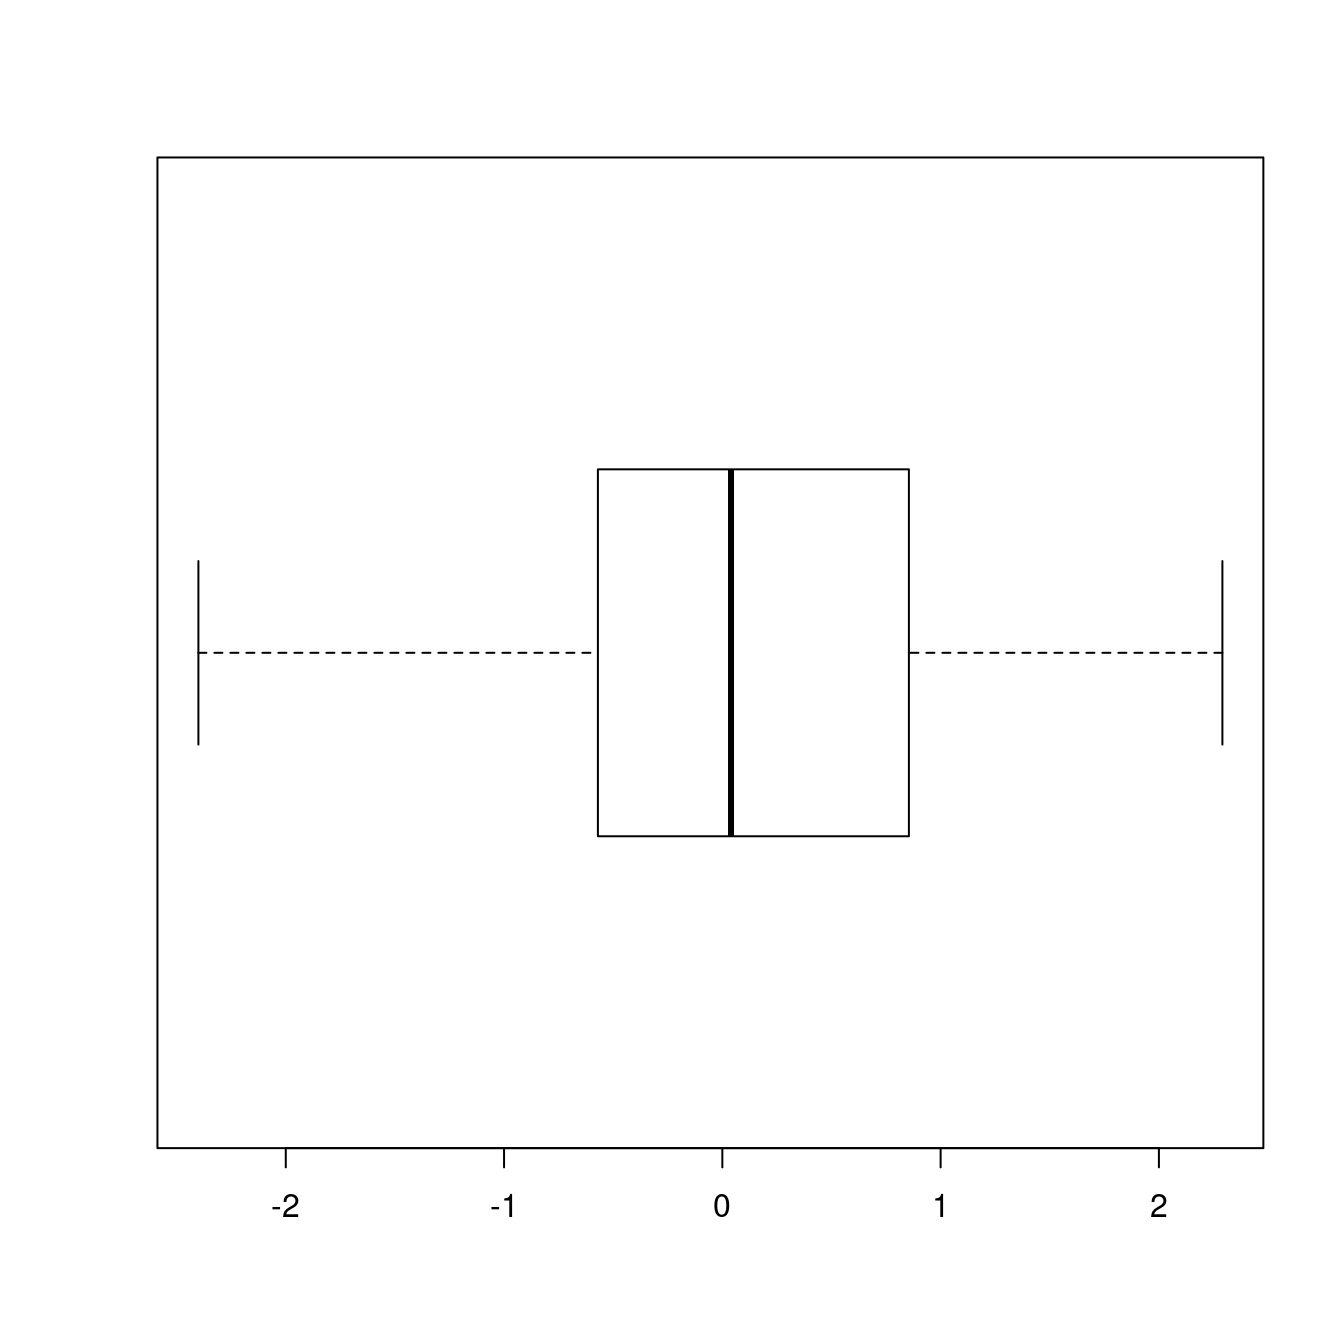
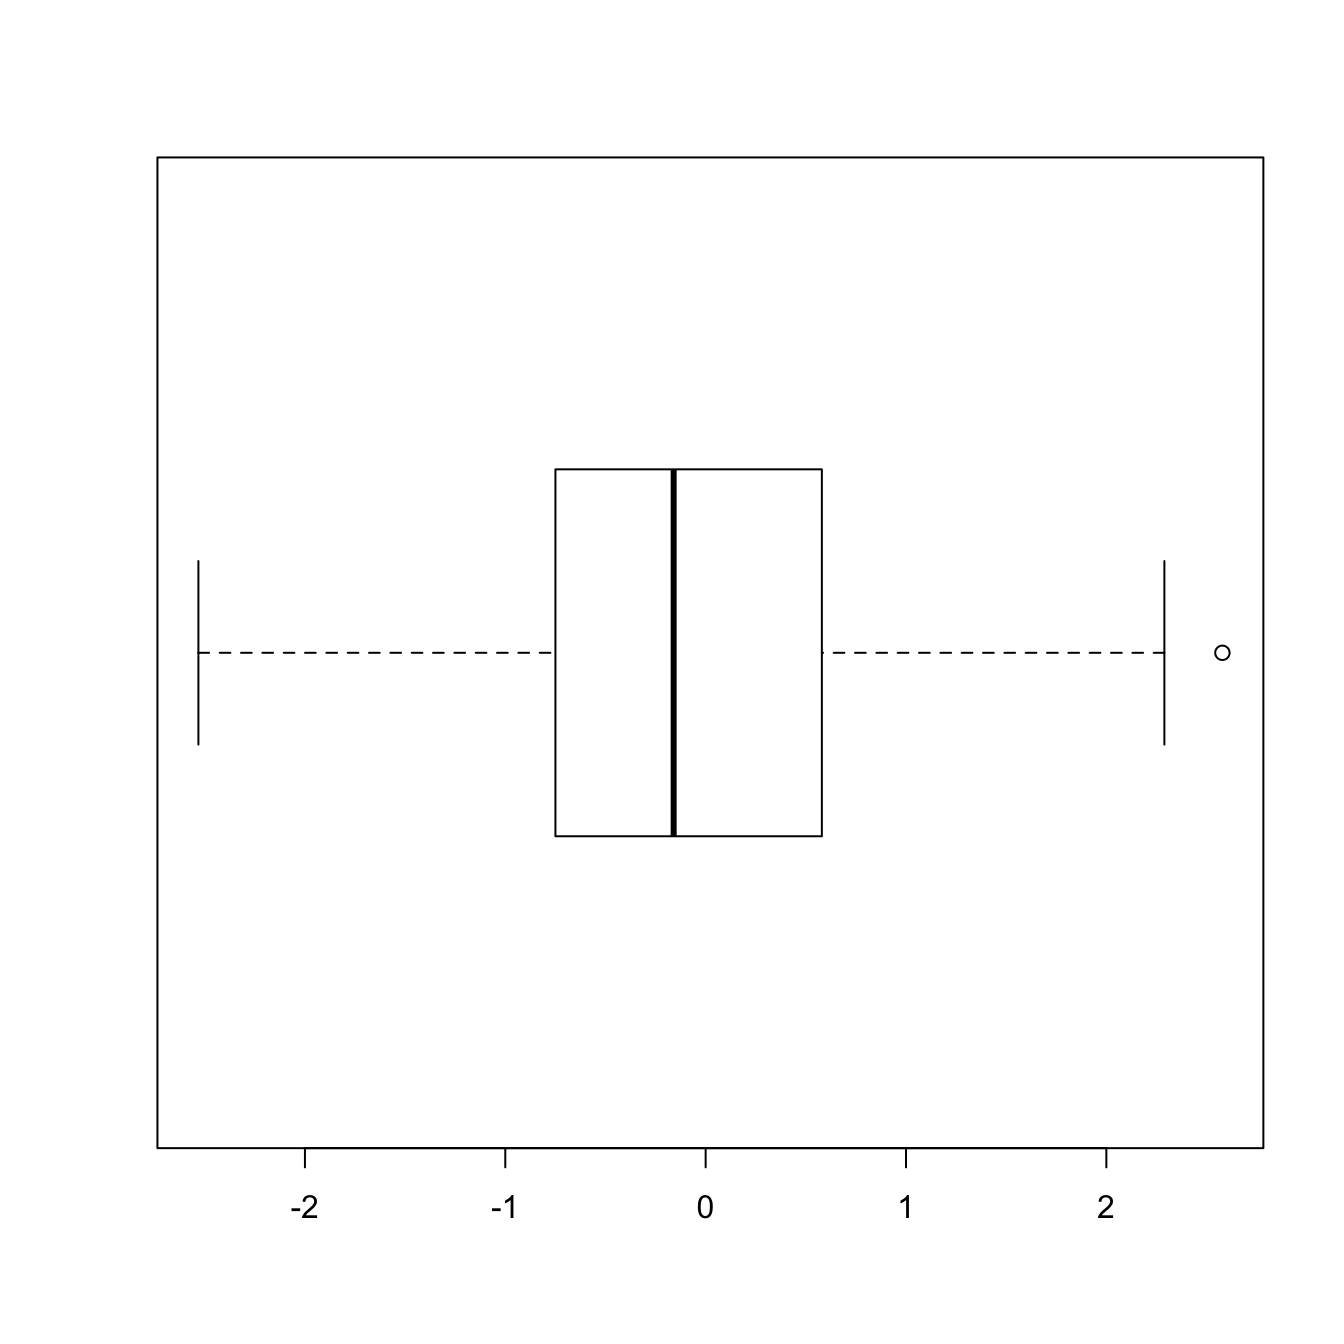
Fix seed + aesthetics

diff --git a/content/post/2018-05-10.html b/content/post/2018-05-10.html
@@ -97,11 +97,11 @@ for (i in 1:100) rnorm(100)
 time &lt;- proc.time() - time
 time # elapsed is the &#39;real&#39; elapsed time since the process was started</code></pre>
 <pre><code>##    user  system elapsed 
-##   0.007   0.000   0.008</code></pre>
+##   0.003   0.000   0.003</code></pre>
 <pre class="r"><code># Using system.time - a wrapper for the above code
 system.time({for (i in 1:100) rnorm(100)})</code></pre>
 <pre><code>##    user  system elapsed 
-##   0.005   0.000   0.006</code></pre>
+##   0.002   0.000   0.003</code></pre>
 <p>However, this very basic approach presents several inconveniences to be aware of:</p>
 <ul>
 <li>The <strong>precision</strong> of <code>proc.time</code> is within the millisecond. This means that evaluating <code>1:1000000</code> (usually) takes <code>0</code> seconds at the sight of <code>proc.time</code>.</li>
@@ -506,6 +506,7 @@ predict(bigglmMod, newdata = bigData2[1:5, ], type = &quot;response&quot;)
 <pre class="r"><code>library(txtplot) # txt* functions
 
 # Generate common data
+set.seed(987202226)
 x &lt;- rnorm(100)
 y &lt;- 1 + x + rnorm(100, sd = 1)
 let &lt;- as.factor(sample(letters, size = 1000, replace = TRUE))
@@ -514,42 +515,42 @@ let &lt;- as.factor(sample(letters, size = 1000, replace = TRUE))
 plot(x, y)</code></pre>
 <p><img src="/post/2018-05-10_files/figure-html/ascii-1-1.png" width="672" /></p>
 <pre class="r"><code>txtplot(x, y)</code></pre>
-<pre><code>##    +-------+-------+--------+-------+--------+-------+-----+
-##  4 +                                           *       *   +
-##    |                                           * *         |
-##    |                                        *     *     *  |
-##    |                                  *  **                |
-##  2 +                            *  *  *  **       **       +
-##    |                              **  **** * ***     *     |
-##    |                       *    ** *  ***      *           |
-##    |                 *   ** * ** **** * *    *             |
-##  0 +                *  ***   ******  *****                 +
-##    |                      *  *   *         *               |
-##    |  *                           *                        |
-## -2 +          *                                            +
-##    +-------+-------+--------+-------+--------+-------+-----+
-##           -3      -2       -1       0        1       2</code></pre>
+<pre><code>##    +-------+---------+---------+---------+---------+-------+
+##  4 +                                 *        *    ***     +
+##    |                    *          *                    *  |
+##  3 +                       *    *   * **         * *       +
+##    |                           * *  * *    *               |
+##  2 +                     * * * *    ** *                   +
+##    |                     * *     ******  *  *              |
+##  1 +    *        *   **  ** ** **     *  ** *              +
+##    |          *   * *    ****  *                           |
+##  0 +                 ** *  * *   *    *                    +
+##    |              ****       *  *                          |
+## -1 +  *    ** **      ***   *                              +
+##    |   **     *   *                                        |
+## -2 +-------+---------+---------+---------+---------+-------+
+##           -2        -1         0         1         2</code></pre>
 <pre class="r"><code># txtboxplot
 boxplot(x, horizontal = TRUE)</code></pre>
 <p><img src="/post/2018-05-10_files/figure-html/ascii-1-2.png" width="672" /></p>
 <pre class="r"><code>txtboxplot(x)</code></pre>
-<pre><code>##   -2          -1           0           1            2       
-##  |-+-----------+-----------+-----------+------------+------|
-##                     +-------+-----+                         
-##     ----------------|       |     |---------------------    
-##                     +-------+-----+</code></pre>
+<pre><code>##          -2        -1          0         1          2       
+##  |--------+---------+----------+---------+----------+------|
+##                        +-----+-------+                      
+##     -------------------|     |       |------------------    
+##                        +-----+-------+</code></pre>
 <pre class="r"><code># txtbarchart
 barplot(table(let))</code></pre>
 <p><img src="/post/2018-05-10_files/figure-html/ascii-1-3.png" width="672" /></p>
 <pre class="r"><code>txtbarchart(x = let)</code></pre>
 <pre><code>##   ++---------+---------+----------+---------+---------+----+
-## 5 +                  *                              *      +
-##   |        * *       *         *      * * * *   *   *   *  |
-## 4 +    *   * * *     *       * *      * * * * * *   *   *  +
-##   |    * * * * * * * *   *   * *      * * * * * * * *   *  |
-## 3 +  * * * * * * * * * * * * * *  * * * * * * * * * *   *  +
-##   |  * * * * * * * * * * * * * *  * * * * * * * * * *   *  |
-## 2 +  * * * * * * * * * * * * * *  * * * * * * * * * *   *  +
+## 5 +  *                                                  *  +
+##   |  * *                       *        *   *           *  |
+## 4 +  * *             *   *     *  * *   * * *   * *     *  +
+##   |  * *   *   * * * * * * * * *  * * * * * * * * *   * *  |
+## 3 +  * * * * * * * * * * * * * *  * * * * * * * * * * * *  +
+##   |  * * * * * * * * * * * * * *  * * * * * * * * * * * *  |
+## 2 +  * * * * * * * * * * * * * *  * * * * * * * * * * * *  +
 ##   |  * * * * * * * * * * * * * *  * * * * * * * * * * * *  |
 ## 1 +  * * * * * * * * * * * * * *  * * * * * * * * * * * *  +
 ##   |  * * * * * * * * * * * * * *  * * * * * * * * * * * *  |
@@ -587,16 +588,16 @@ acf(x)</code></pre>
 ##    1 + *                                                   +
 ##      | *                                                   |
 ##  0.8 + *                                                   +
-##      | *                                                   |
 ##  0.6 + *                                                   +
 ##      | *                                                   |
 ##  0.4 + *                                                   +
 ##      | *                                                   |
-##  0.2 + *                 *      *         *                +
-##      | *    *            *      * *       *      *  *   *  |
+##  0.2 + *                                                   +
+##      | *                          *                   *    |
 ##    0 + *  * *  * *  * *  * * *  * *  * *  * *  * *  * * *  +
-##      |    *         * *      *       *      *         *    |
-## -0.2 +-+------------+-----------+-----------+-----------+--+
+##      |    *      *                   *    *    *        *  |
+## -0.2 +    *                               *                +
+##      +-+------------+-----------+-----------+-----------+--+
 ##        0            5          10          15          20</code></pre>
 <pre class="r"><code>library(NostalgiR) # nos.* functions
 
@@ -610,97 +611,97 @@ zz &lt;- outer(xx, yy, f)
 plot(density(x)); rug(x)</code></pre>
 <p><img src="/post/2018-05-10_files/figure-html/ascii-2-1.png" width="672" /></p>
 <pre class="r"><code>nos.density(x)</code></pre>
-<pre><code>##       +-----+-----------+-----------+------------+---------+
-##   0.4 +                          ~~~~~~~                   +
-##       |                          ~     ~                   |
-##       |                         ~      ~~                  |
-## D 0.3 +                        ~~       ~                  +
-## e     |                        ~         ~                 |
-## n     |                       ~~         ~~                |
-## s 0.2 +                      ~~           ~~               +
-## i     |                     ~~             ~~~~            |
-## t     |                    ~~                 ~~           |
-## y 0.1 +                   ~~                   ~~          +
-##       |                 ~~~                      ~~~       |
-##     0 + ~~~~~~~~~~~~~~~~~oooooooooooooooooooooooo o~~~~~~  +
-##       +-----+-----------+-----------+------------+---------+
-##            -4          -2           0            2</code></pre>
+<pre><code>##       +-----------+--------------+-------------+-----------+
+##       |                      ~~~~~~                        |
+##       |                   ~~~     ~~                       |
+##   0.3 +                 ~~~        ~~                      +
+## D     |                ~~           ~~                     |
+## e     |               ~~             ~~                    |
+## n 0.2 +              ~~               ~~~                  +
+## s     |             ~~                  ~~~                |
+## i     |            ~~                      ~~              |
+## t 0.1 +           ~~                        ~~~            +
+## y     |          ~~                           ~~~          |
+##       |        ~~~                              ~~~        |
+##     0 + ~~~~~~~~o oo oooooooooooooooooooooooo oooo~~~~~~~  +
+##       +-----------+--------------+-------------+-----------+
+##                  -2              0             2</code></pre>
 <pre class="r"><code># nos.hist
 hist(x)</code></pre>
 <p><img src="/post/2018-05-10_files/figure-html/ascii-2-2.png" width="672" /></p>
 <pre class="r"><code>nos.hist(x)</code></pre>
-<pre><code>##      +------+-------+-------+-------+-------+-------+------+
-##      |                          o       o                  |
-##   30 +                          o       o                  +
-## F    |                          o       o                  |
-## r    |                          o       o                  |
-## e    |                          o       o                  |
-## q 20 +                          o       o                  +
-## u    |                          o       o                  |
-## e    |                          o       o       o          |
-## n 10 +                  o       o       o       o          +
-## c    |                  o       o       o       o          |
-## y    |                  o       o       o       o          |
-##    0 + o        o       o       o       o       o       o  +
-##      +------+-------+-------+-------+-------+-------+------+
-##            -3      -2      -1       0       1       2</code></pre>
+<pre><code>##      +----+----------+----------+----------+----------+----+
+##      |                  o          o                       |
+##      |                  o    o     o                       |
+## F 15 +            o     o    o     o                       +
+## r    |            o     o    o     o                       |
+## e    |            o     o    o     o                       |
+## q 10 +            o     o    o     o          o            +
+## u    |       o    o     o    o     o    o     o            |
+## e    |       o    o     o    o     o    o     o            |
+## n  5 +       o    o     o    o     o    o     o            +
+## c    |       o    o     o    o     o    o     o    o       |
+## y    | o     o    o     o    o     o    o     o    o    o  |
+##    0 + o     o    o     o    o     o    o     o    o    o  +
+##      +----+----------+----------+----------+----------+----+
+##          -2         -1          0          1          2</code></pre>
 <pre class="r"><code># nos.ecdf
 plot(ecdf(x))</code></pre>
 <p><img src="/post/2018-05-10_files/figure-html/ascii-2-3.png" width="672" /></p>
 <pre class="r"><code>nos.ecdf(x)</code></pre>
-<pre><code>##       +------+-------+-------+--------+-------+-------+----+
-##     1 +                                          ooooo~~o  +
-##       |                                       ooo~         |
-##   0.8 +                                   oooo~            +
-##       |                                 ooo                |
-## E 0.6 +                                oo                  +
-## C     |                               oo                   |
-## D     |                            oooo                    |
-## F 0.4 +                           oo                       +
-##       |                          oo                        |
-##   0.2 +                        ooo                         +
-##       |                    oo~o                            |
-##       | o~~~~~~~o~~~~~oo~ooo                               |
-##     0 +------+-------+-------+--------+-------+-------+----+
-##             -3      -2      -1        0       1       2</code></pre>
+<pre><code>##       +-----+---------+----------+----------+---------+----+
+##     1 +                                         o~o~ooooo  +
+##       |                                     ooooo          |
+##   0.8 +                                ooo~o~              +
+##       |                           ooooo~                   |
+## E 0.6 +                          oo                        +
+## C     |                        ooo                         |
+## D     |                      ooo                           |
+## F 0.4 +                   ooo~                             +
+##       |                oooo                                |
+##   0.2 +             oooo                                   +
+##       |         ooooo                                      |
+##       | o~~oo~~oo                                          |
+##     0 +-----+---------+----------+----------+---------+----+
+##            -2        -1          0          1         2</code></pre>
 <pre class="r"><code># nos.qqnorm
 qqnorm(x); qqline(x)</code></pre>
 <p><img src="/post/2018-05-10_files/figure-html/ascii-2-4.png" width="672" /></p>
 <pre class="r"><code>nos.qqnorm(x)</code></pre>
-<pre><code>##      +-----+-------+-------+--------+-------+-------+------+
-##    2 +                                            ~o~o~ o  +
-## S    |                                        ooooo        |
-## a  1 +                                    ~ooo~            +
-## m    |                               oooooo                |
-## p  0 +                           ooooo                     +
-## l    |                      oooooo                         |
-## e -1 +                  ooooo~                             +
-##      |              ~ooo~                                  |
-## Q -2 +          ~~~~~                                      +
-## s -3 +      ~~~~~ o o                                      +
-##      | ~~~~~   o                                           |
-##      +-----+-------+-------+--------+-------+-------+------+
-##           -3      -2      -1        0       1       2       
+<pre><code>##      +-------+--------+---------+--------+---------+-------+
+##    2 +                                           o~o~o~ o  +
+## S    |                                        ooo~~        |
+## a  1 +                                    ooooo            +
+## m    |                                 ooo~                |
+## p    |                             ~~oo~                   |
+## l  0 +                         oooooo                      +
+## e    |                      oooo                           |
+##   -1 +                  ooooo                              +
+## Q    |              ooooo                                  |
+## s    |         ooooo                                       |
+##   -2 + o   o~o~~~                                          +
+##      +-------+--------+---------+--------+---------+-------+
+##             -2       -1         0        1         2        
 ##                          Theoretical Qs</code></pre>
 <pre class="r"><code># nos.qqplot
 qqplot(x, y)</code></pre>
 <p><img src="/post/2018-05-10_files/figure-html/ascii-2-5.png" width="672" /></p>
 <pre class="r"><code>nos.qqplot(x, y)</code></pre>
-<pre><code>##    +-------+-------+--------+-------+--------+-------+-----+
-##  4 +                                                   oo  +
-##    |                                              oo o     |
-##    |                                           o oo        |
-##  2 +                                       ooooo    ~~~~~  +
-##    |                                   oooo   ~~~~~~       |
-##    |                               oooo ~~~~~~             |
-##  0 +                          oooooo~~~~~                  +
-##    |                    ooooooo~~~~                        |
-##    |          o     oo o~~~~~                              |
-## -2 +  o       o  ~~~~~~                                    +
-##    |       ~~~~~~                                          |
-##    |  ~~~~~~                                               |
-## -4 +-------+-------+--------+-------+--------+-------+-----+
-##           -3      -2       -1       0        1       2</code></pre>
+<pre><code>##  4 +-----+----------+-----------+----------+----------+----+
+##    |                                              o ooooo  |
+##    |                                        ooooo          |
+##  2 +                                    o oo          ~~~  +
+##    |                             o ooooo       ~~~~~~~     |
+##    |                          oooo      ~~~~~~~~           |
+##    |                    ooooooo  ~~~~~~~~                  |
+##  0 +                 oooo  ~~~~~~~                         +
+##    |            oooooo~~~~~                                |
+##    |         ooo~~~~~                                      |
+## -2 +  ~~~o~~~~                                             +
+##    |  ~ o                                                  |
+##    |  o                                                    |
+##    +-----+----------+-----------+----------+----------+----+
+##         -2         -1           0          1          2</code></pre>
 <pre class="r"><code># nos.contour
 contour(xx, yy, zz)</code></pre>
 <p><img src="/post/2018-05-10_files/figure-html/ascii-2-6.png" width="672" /></p>
